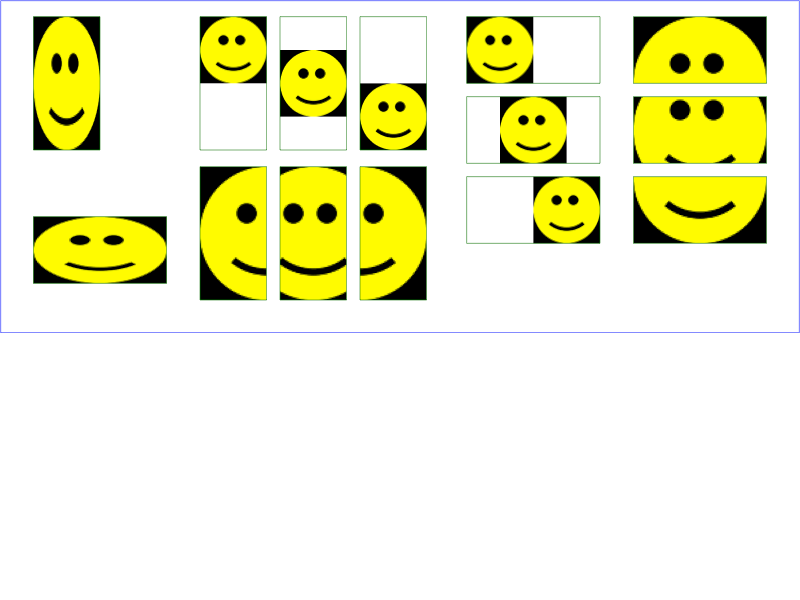
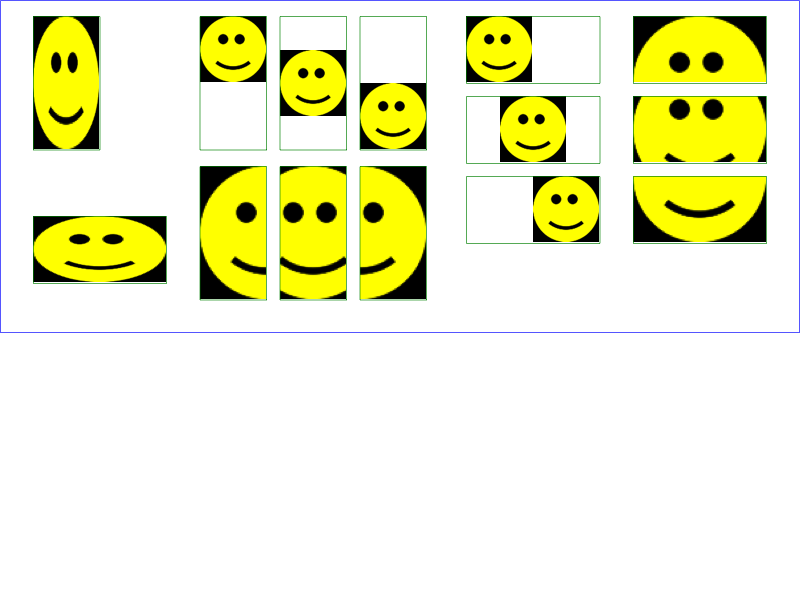
rounding issue for svg rect height with em and percentage https://bugs.webkit.org/show_bug.cgi?id=309035 rdar://171587382
Reviewed by Nikolas Zimmermann (OOPS\!).

The percentage conversion helpers in SVGLengthContext used float
parameters, truncating intermediate results and producing rounding
errors visible through JavaScript APIs (e.g. 30% of 400px returning
120.00000762939453 instead of 120).

Widen convertValueFromPercentageToUserUnits from float to double so
divisions and multiplications stay in double precision. Callers
narrow back to float at the boundary.

Test: imported/w3c/web-platform-tests/svg/geometry/svg-length-convert-to-percentage-precision.html

* LayoutTests/imported/w3c/web-platform-tests/svg/geometry/svg-baseval-in-display-none.html:
* LayoutTests/imported/w3c/web-platform-tests/svg/geometry/svg-baseval-in-display-none-expected.txt:
* LayoutTests/imported/w3c/web-platform-tests/svg/geometry/svg-length-convert-to-percentage-precision.html: Added.
* LayoutTests/imported/w3c/web-platform-tests/svg/geometry/svg-length-convert-to-percentage-precision-expected.txt: Added.
* LayoutTests/platform/mac-tahoe-wk2-lbse-text/svg/custom/image-with-transform-clip-filter-expected.txt: Removed.
* LayoutTests/platform/mac-tahoe-wk2-lbse-text/svg/filters/feImage-preserveAspectRatio-all-expected.txt: Removed.
* LayoutTests/platform/mac-tahoe-wk2-lbse-text/svg/filters/feImage-preserveAspectratio-expected.txt: Removed.
* LayoutTests/platform/mac/svg/custom/image-with-transform-clip-filter-expected.png:
* LayoutTests/platform/mac/svg/filters/feImage-preserveAspectratio-expected.png:
[…]

Pull request: rounding issue for svg rect height with em and percentage
#### 5ed9fc92e49bbc1d3e39664442c486ffb2009a60
<pre>
rounding issue for svg rect height with em and percentage
<a href="https://bugs.webkit.org/show_bug.cgi?id=309035">https://bugs.webkit.org/show_bug.cgi?id=309035</a>
<a href="https://rdar.apple.com/171587382">rdar://171587382</a>

Reviewed by Nikolas Zimmermann (OOPS\!).

The percentage conversion helpers in SVGLengthContext used float
parameters, truncating intermediate results and producing rounding
errors visible through JavaScript APIs (e.g. 30% of 400px returning
120.00000762939453 instead of 120).

Widen convertValueFromPercentageToUserUnits from float to double so
divisions and multiplications stay in double precision. Callers
narrow back to float at the boundary.

Test: imported/w3c/web-platform-tests/svg/geometry/svg-length-convert-to-percentage-precision.html

* LayoutTests/imported/w3c/web-platform-tests/svg/geometry/svg-baseval-in-display-none.html:
* LayoutTests/imported/w3c/web-platform-tests/svg/geometry/svg-baseval-in-display-none-expected.txt:
* LayoutTests/imported/w3c/web-platform-tests/svg/geometry/svg-length-convert-to-percentage-precision.html: Added.
* LayoutTests/imported/w3c/web-platform-tests/svg/geometry/svg-length-convert-to-percentage-precision-expected.txt: Added.
* LayoutTests/platform/mac-tahoe-wk2-lbse-text/svg/custom/image-with-transform-clip-filter-expected.txt: Removed.
* LayoutTests/platform/mac-tahoe-wk2-lbse-text/svg/filters/feImage-preserveAspectRatio-all-expected.txt: Removed.
[…]

diff --git a/LayoutTests/imported/w3c/web-platform-tests/svg/geometry/svg-length-convert-to-percentage-precision.html b/LayoutTests/imported/w3c/web-platform-tests/svg/geometry/svg-length-convert-to-percentage-precision.html
@@ -1,0 +1,85 @@
+<!DOCTYPE html>
+<title>SVGLength.convertToSpecifiedUnits percentage precision</title>
+<script src="/resources/testharness.js"></script>
+<script src="/resources/testharnessreport.js"></script>
+<link rel="help" href="https://svgwg.org/svg2-draft/types.html#__svg__SVGLength__convertToSpecifiedUnits"/>
+<svg width="0" height="0">
+  <!-- 120px in a 400-wide viewport: 120/400 = 30% exactly -->
+  <svg id="vp1" width="400" height="400">
+    <rect id="r1" width="120" height="120"/>
+  </svg>
+  <!-- 180px in a 600-wide viewport: 180/600 = 30% exactly -->
+  <svg id="vp2" width="600" height="400">
+    <rect id="r2" width="180" height="120"/>
+  </svg>
+  <!-- 120px in a 700-wide viewport: 120/700 = 17.142857...% -->
+  <svg id="vp3" width="700" height="400">
+    <rect id="r3" width="120" height="120"/>
+  </svg>
+</svg>
+<script>
+const SVG_LENGTHTYPE_PERCENTAGE = SVGLength.SVG_LENGTHTYPE_PERCENTAGE;
+
+// 120px width in a 400px viewport should convert to exactly 30%
+// With float arithmetic: 120.0f / 400.0f = 0.3f = 0.300000011...
+//   then * 100 = 30.0000019... (one ULP above 30)
+// With double arithmetic: 120.0 / 400.0 * 100 rounds to exactly 30.0
+let tWidth400 = async_test("convertToSpecifiedUnits: width 120px in 400px viewport = 30%");
+let tWidth400Done = tWidth400.step_func_done(() => {
+  let width = document.getElementById("r1").width.baseVal;
+  assert_equals(width.value, 120, "r1.width starts at 120 user units");
+  width.convertToSpecifiedUnits(SVG_LENGTHTYPE_PERCENTAGE);
+  assert_equals(width.valueInSpecifiedUnits, 30,
+    "120px / 400px viewport = exactly 30%");
+});
+
+// 120px height in a 400px viewport (height dimension)
+let tHeight400 = async_test("convertToSpecifiedUnits: height 120px in 400px viewport = 30%");
+let tHeight400Done = tHeight400.step_func_done(() => {
+  let height = document.getElementById("r1").height.baseVal;
+  assert_equals(height.value, 120, "r1.height starts at 120 user units");
+  height.convertToSpecifiedUnits(SVG_LENGTHTYPE_PERCENTAGE);
+  assert_equals(height.valueInSpecifiedUnits, 30,
+    "120px / 400px viewport height = exactly 30%");
+});
+
+// 180px in a 600px viewport: 180/600 = 0.3, same float rounding trap
+let tWidth600 = async_test("convertToSpecifiedUnits: width 180px in 600px viewport = 30%");
+let tWidth600Done = tWidth600.step_func_done(() => {
+  let width = document.getElementById("r2").width.baseVal;
+  assert_equals(width.value, 180, "r2.width starts at 180 user units");
+  width.convertToSpecifiedUnits(SVG_LENGTHTYPE_PERCENTAGE);
+  assert_equals(width.valueInSpecifiedUnits, 30,
+    "180px / 600px viewport = exactly 30%");
+});
+
+// 120px in a 700px viewport: 120/700 is not exactly representable
+// in any precision, but double gives a much closer result.
+// float:  120.0f / 700.0f * 100 = 17.142858505249023...
+// double: 120.0  / 700.0  * 100 = 17.142857142857142...
+let tWidth700 = async_test("convertToSpecifiedUnits: 120px in 700px viewport (irrational %)");
+let tWidth700Done = tWidth700.step_func_done(() => {
+  let width = document.getElementById("r3").width.baseVal;
+  assert_equals(width.value, 120, "r3.width starts at 120 user units");
+  width.convertToSpecifiedUnits(SVG_LENGTHTYPE_PERCENTAGE);
+  let result = width.valueInSpecifiedUnits;
+  // With double precision the result should be closer to the exact value
+  assert_approx_equals(result, 120 / 700 * 100, 1e-6,
+    "120px / 700px viewport should be close to 17.142857...");
+});
+
+const main = () => {
+  window.requestAnimationFrame(() => {
+    tWidth400Done();
+    tHeight400Done();
+    tWidth600Done();
+    tWidth700Done();
+  });
+};
+
+if (document.readyState === "complete") {
+  main();
+} else {
+  window.addEventListener("load", main);
+}
+</script>

diff --git a/LayoutTests/imported/w3c/web-platform-tests/svg/geometry/svg-baseval-in-display-none.html b/LayoutTests/imported/w3c/web-platform-tests/svg/geometry/svg-baseval-in-display-none.html
@@ -17,12 +17,23 @@
       <circle id="c2" cx="5em" cy="6em" r="10em" />
     </g>
   </svg>
+  <!-- Viewport with swapped dimensions to trigger float rounding on width too -->
+  <svg width="400" height="600" font-size="5">
+    <g font-size="10px">
+      <rect id="r3" x="5em" y="6em" width="30%" height="20%" />
+    </g>
+    <g font-size="10px" style="display:none">
+      <rect id="r4" x="5em" y="6em" width="30%" height="20%" />
+    </g>
+  </svg>
 </svg>
 <script>
   let r1 = document.getElementById("r1"),
       c1 = document.getElementById("c1"),
       r2 = document.getElementById("r2"),
-      c2 = document.getElementById("c2");
+      c2 = document.getElementById("c2"),
+      r3 = document.getElementById("r3"),
+      r4 = document.getElementById("r4");
 
   const assertBaseVal = (length, expected, info) => {
     assert_equals(length.baseVal.value, expected, info);
@@ -52,10 +63,21 @@
     assertBaseVal(r2.height, 120, "r2.height");
   });
 
+  let tWidthRounding = async_test("Width with 30% of 400 viewport (float rounding)");
+  let tWidthRoundingDone = tWidthRounding.step_func_done(() => {
+    // 30% of 400 = 120, but float(0.3) * 400 = 120.00000762939453 if precision is lost
+    assertBaseVal(r3.width, 120, "r3.width (30% of 400)");
+    assertBaseVal(r3.height, 120, "r3.height (20% of 600)");
+
+    assertBaseVal(r4.width, 120, "r4.width (30% of 400, display:none)");
+    assertBaseVal(r4.height, 120, "r4.height (20% of 600, display:none)");
+  });
+
   const main = () => {
     window.requestAnimationFrame(() => {
       tEmDone();
       tEmPercentageDone();
+      tWidthRoundingDone();
     });
   };
 

diff --git a/Source/WebCore/svg/SVGLengthContext.cpp b/Source/WebCore/svg/SVGLengthContext.cpp
@@ -65,10 +65,10 @@ FloatRect SVGLengthContext::resolveRectangle(const SVGElement* context, SVGUnitT
     if (type != SVGUnitTypes::SVG_UNIT_TYPE_USERSPACEONUSE) {
         auto viewportSize = viewport.size();
         return FloatRect(
-            convertValueFromPercentageToUserUnits(x.valueAsPercentage(), x.lengthMode(), viewportSize) + viewport.x(),
-            convertValueFromPercentageToUserUnits(y.valueAsPercentage(), y.lengthMode(), viewportSize) + viewport.y(),
-            convertValueFromPercentageToUserUnits(width.valueAsPercentage(), width.lengthMode(), viewportSize),
-            convertValueFromPercentageToUserUnits(height.valueAsPercentage(), height.lengthMode(), viewportSize));
+            clampTo<float>(convertValueFromPercentageToUserUnits(x.valueAsPercentage(), x.lengthMode(), viewportSize) + viewport.x()),
+            clampTo<float>(convertValueFromPercentageToUserUnits(y.valueAsPercentage(), y.lengthMode(), viewportSize) + viewport.y()),
+            clampTo<float>(convertValueFromPercentageToUserUnits(width.valueAsPercentage(), width.lengthMode(), viewportSize)),
+            clampTo<float>(convertValueFromPercentageToUserUnits(height.valueAsPercentage(), height.lengthMode(), viewportSize)));
     }
 
     SVGLengthContext lengthContext(context, viewport.size());
@@ -124,7 +124,7 @@ template<typename SizeType> float SVGLengthContext::valueForSizeType(const SizeT
             auto result = convertValueFromPercentageToUserUnits(percentage.value / 100, lengthMode);
             if (result.hasException())
                 return 0;
-            return result.releaseReturnValue();
+            return clampTo<float>(result.releaseReturnValue());
         },
         [&](const typename SizeType::Calc& calc) -> float {
             auto viewportSize = this->viewportSize().value_or(FloatSize { });
@@ -147,7 +147,7 @@ template<typename SizeType> float SVGLengthContext::valueForSizeType(const SizeT
             auto result = convertValueFromPercentageToUserUnits(percentage.value / 100, lengthMode);
             if (result.hasException())
                 return 0;
-            return result.releaseReturnValue();
+            return clampTo<float>(result.releaseReturnValue());
         },
         [&](const typename SizeType::Calc& calc) -> float {
             auto viewportSize = this->viewportSize().value_or(FloatSize { });
@@ -247,8 +247,12 @@ float SVGLengthContext::removeZoomFromFontOrRootFontRelativeLength(float value, 
 ExceptionOr<float> SVGLengthContext::resolveValueToUserUnits(float value, const CSS::LengthPercentageUnit& targetUnit, SVGLengthMode lengthMode) const
 {
     switch (targetUnit) {
-    case CSS::LengthPercentageUnit::Percentage:
-        return convertValueFromPercentageToUserUnits(value / 100.0, lengthMode);
+    case CSS::LengthPercentageUnit::Percentage: {
+        auto result = convertValueFromPercentageToUserUnits(value / 100.0, lengthMode);
+        if (result.hasException())
+            return result.releaseException();
+        return clampTo<float>(result.releaseReturnValue());
+    }
 
     case CSS::LengthPercentageUnit::Ex:
         // FIXME: Legacy quirk. Using the computeNonCalcLengthDouble conversion here causes test failures
@@ -307,12 +311,12 @@ ExceptionOr<float> SVGLengthContext::convertValueFromUserUnitsToPercentage(float
         return Exception { ExceptionCode::NotSupportedError };
 
     if (auto divisor = dimensionForLengthMode(lengthMode, *viewportSize))
-        return value / divisor * 100;
+        return clampTo<float>(static_cast<double>(value) / divisor * 100);
 
     return value;
 }
 
-ExceptionOr<float> SVGLengthContext::convertValueFromPercentageToUserUnits(float value, SVGLengthMode lengthMode) const
+ExceptionOr<double> SVGLengthContext::convertValueFromPercentageToUserUnits(double value, SVGLengthMode lengthMode) const
 {
     auto viewportSize = this->viewportSize();
     if (!viewportSize)
@@ -321,7 +325,7 @@ ExceptionOr<float> SVGLengthContext::convertValueFromPercentageToUserUnits(float
     return convertValueFromPercentageToUserUnits(value, lengthMode, *viewportSize);
 }
 
-float SVGLengthContext::convertValueFromPercentageToUserUnits(float value, SVGLengthMode lengthMode, FloatSize viewportSize)
+double SVGLengthContext::convertValueFromPercentageToUserUnits(double value, SVGLengthMode lengthMode, FloatSize viewportSize)
 {
     return value * dimensionForLengthMode(lengthMode, viewportSize);
 }

diff --git a/Source/WebCore/svg/SVGLengthContext.h b/Source/WebCore/svg/SVGLengthContext.h
@@ -82,8 +82,8 @@ public:
 
 private:
     ExceptionOr<float> convertValueFromUserUnitsToPercentage(float value, SVGLengthMode) const;
-    ExceptionOr<float> convertValueFromPercentageToUserUnits(float value, SVGLengthMode) const;
-    static float NODELETE convertValueFromPercentageToUserUnits(float value, SVGLengthMode, FloatSize);
+    ExceptionOr<double> convertValueFromPercentageToUserUnits(double value, SVGLengthMode) const;
+    static double convertValueFromPercentageToUserUnits(double value, SVGLengthMode, FloatSize);
 
     ExceptionOr<float> convertValueFromUserUnitsToEXS(float) const;
     ExceptionOr<float> convertValueFromEXSToUserUnits(float) const;

diff --git a/Source/WebCore/svg/SVGLengthValue.cpp b/Source/WebCore/svg/SVGLengthValue.cpp
@@ -231,6 +231,9 @@ static float convertToPixels(float value, CSS::LengthPercentageUnit unit)
     }
 }
 
+// FIXME: Returning float loses precision for callers that multiply by a viewport dimension
+// (e.g. resolveRectangle with objectBoundingBox units). Consider returning double to keep
+// the division by 100 in double precision. See https://bugs.webkit.org/show_bug.cgi?id=309035
 float SVGLengthValue::valueAsPercentage() const
 {
     return WTF::switchOn(m_value,